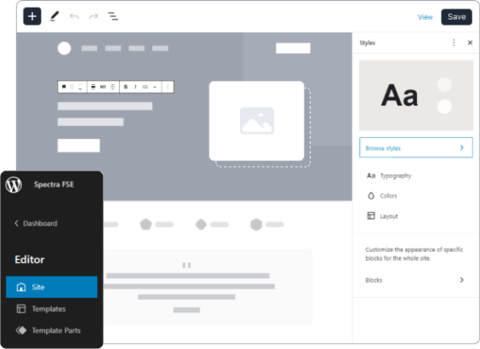
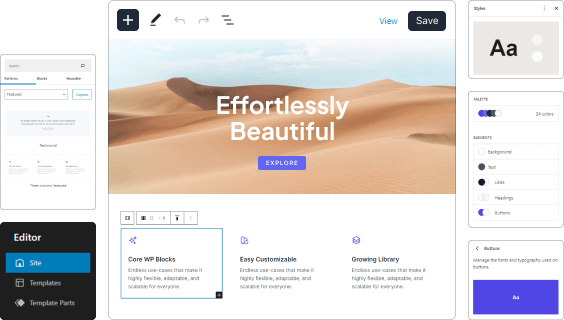
updated : front page and introduced button style

diff --git a/assets/css/minified/editor.min-rtl.css b/assets/css/minified/editor.min-rtl.css
@@ -1,1 +1,1 @@
-.is-style-swt-search-minimal.wp-block-search__button-inside .wp-block-search__button{color:var(--wp--preset--color--heading);background-color:var(--wp--preset--color--background);border-radius:0;margin:0;padding:var(--wp--preset--spacing--xx-small) var(--wp--preset--spacing--x-small)}.is-style-swt-search-minimal.wp-block-search__button-inside .wp-block-search__button:hover{color:var(--wp--preset--color--heading);background-color:var(--wp--preset--color--background)}.is-style-swt-search-minimal.wp-block-search__button-inside .wp-block-search__inside-wrapper{padding:4px;border:1px solid var(--wp--preset--color--outline);border-radius:var(--wp--custom--border-radius--small)}.is-style-swt-search-minimal .wp-block-search__input{color:var(--wp--preset--color--heading);background-color:var(--wp--preset--color--background);border-radius:0;border:0}.is-style-swt-search-minimal.wp-block-search__button-outside .wp-block-search__input,.is-style-swt-search-minimal.wp-block-search__no-button .wp-block-search__input{border:1px solid var(--wp--preset--color--outline);border-radius:var(--wp--custom--border-radius--small)}.is-style-swt-post-terms-pill a{padding:6px 12px;border-radius:var(--wp--custom--border-radius--full);color:var(--wp--preset--color--body);background-color:var(--wp--preset--color--surface);margin-left:var(--wp--preset--spacing--xx-small);line-height:var(--wp--custom--line-height--initial)}.is-style-swt-post-terms-pill a .wp-block-post-terms__separator{display:none}.edit-post-visual-editor__post-title-wrapper{position:relative;max-width:min(100dvw - var(--wp--preset--spacing--large,2rem),764px);margin-right:auto;margin-left:auto;margin-bottom:1.5em}.edit-post-visual-editor__post-title-wrapper .title-visibility{cursor:pointer;font-size:18px;width:36px;height:100%;text-align:center;color:var(--wp-admin-theme-color);vertical-align:middle;position:absolute;right:-37px;bottom:0;opacity:0;box-shadow:0 0 0 1px var(--wp-admin-theme-color);transition:all .2s}.edit-post-visual-editor__post-title-wrapper .title-visibility:before{width:100%;height:100%;display:inline-flex;align-items:center;justify-content:center}.edit-post-visual-editor__post-title-wrapper .title-visibility:after{content:attr(data-tooltip);white-space:nowrap;border-radius:2px;pointer-events:none;color:#fff;background:#1e1e1e;opacity:0;visibility:hidden;width:max-content;line-height:26px;margin-right:-1px;display:flex;font-family:-apple-system,BlinkMacSystemFont,"Segoe UI",Roboto,Oxygen-Sans,Ubuntu,Cantarell,"Helvetica Neue",sans-serif;align-items:flex-start;padding:0 6px;font-size:12px;transition:all .2s}.edit-post-visual-editor__post-title-wrapper h1.editor-post-title__input{padding:10px 6px;transition:all .2s}.edit-post-visual-editor__post-title-wrapper h1.editor-post-title__input.is-selected{box-shadow:0 0 0 1px var(--wp-admin-theme-color)}.edit-post-visual-editor__post-title-wrapper h1.editor-post-title__input.is-selected+.title-visibility{opacity:1;color:var(--wp-admin-theme-color)}.edit-post-visual-editor__post-title-wrapper .swt-show-visibility-icon{opacity:1;color:var(--wp-admin-theme-color)}.edit-post-visual-editor__post-title-wrapper .swt-show-editor-title-outline{box-shadow:0 0 0 1px var(--wp-admin-theme-color)}.edit-post-visual-editor__post-title-wrapper.invisible{opacity:.5}
+.is-style-swt-search-minimal.wp-block-search__button-inside .wp-block-search__button{color:var(--wp--preset--color--heading);background-color:var(--wp--preset--color--background);border-radius:0;margin:0;padding:var(--wp--preset--spacing--xx-small) var(--wp--preset--spacing--x-small)}.is-style-swt-search-minimal.wp-block-search__button-inside .wp-block-search__button:hover{color:var(--wp--preset--color--heading);background-color:var(--wp--preset--color--background)}.is-style-swt-search-minimal.wp-block-search__button-inside .wp-block-search__inside-wrapper{padding:4px;border:1px solid var(--wp--preset--color--outline);border-radius:var(--wp--custom--border-radius--small)}.is-style-swt-search-minimal .wp-block-search__input{color:var(--wp--preset--color--heading);background-color:var(--wp--preset--color--background);border-radius:0;border:0}.is-style-swt-search-minimal.wp-block-search__button-outside .wp-block-search__input,.is-style-swt-search-minimal.wp-block-search__no-button .wp-block-search__input{border:1px solid var(--wp--preset--color--outline);border-radius:var(--wp--custom--border-radius--small)}.is-style-swt-post-terms-pill a{padding:6px 12px;border-radius:var(--wp--custom--border-radius--full);color:var(--wp--preset--color--body);background-color:var(--wp--preset--color--surface);margin-left:var(--wp--preset--spacing--xx-small);line-height:var(--wp--custom--line-height--initial)}.is-style-swt-post-terms-pill a .wp-block-post-terms__separator{display:none}.is-style-swt-button-secondary .wp-element-button{color:var(--wp--preset--color--body);background-color:var(--wp--preset--color--surface)}.is-style-swt-button-secondary .wp-element-button:hover{color:var(--wp--preset--color--body);background-color:var(--wp--preset--color--surface)}.edit-post-visual-editor__post-title-wrapper{position:relative;max-width:min(100dvw - var(--wp--preset--spacing--large,2rem),764px);margin-right:auto;margin-left:auto;margin-bottom:1.5em}.edit-post-visual-editor__post-title-wrapper .title-visibility{cursor:pointer;font-size:18px;width:36px;height:100%;text-align:center;color:var(--wp-admin-theme-color);vertical-align:middle;position:absolute;right:-37px;bottom:0;opacity:0;box-shadow:0 0 0 1px var(--wp-admin-theme-color);transition:all .2s}.edit-post-visual-editor__post-title-wrapper .title-visibility:before{width:100%;height:100%;display:inline-flex;align-items:center;justify-content:center}.edit-post-visual-editor__post-title-wrapper .title-visibility:after{content:attr(data-tooltip);white-space:nowrap;border-radius:2px;pointer-events:none;color:#fff;background:#1e1e1e;opacity:0;visibility:hidden;width:max-content;line-height:26px;margin-right:-1px;display:flex;font-family:-apple-system,BlinkMacSystemFont,"Segoe UI",Roboto,Oxygen-Sans,Ubuntu,Cantarell,"Helvetica Neue",sans-serif;align-items:flex-start;padding:0 6px;font-size:12px;transition:all .2s}.edit-post-visual-editor__post-title-wrapper h1.editor-post-title__input{padding:10px 6px;transition:all .2s}.edit-post-visual-editor__post-title-wrapper h1.editor-post-title__input.is-selected{box-shadow:0 0 0 1px var(--wp-admin-theme-color)}.edit-post-visual-editor__post-title-wrapper h1.editor-post-title__input.is-selected+.title-visibility{opacity:1;color:var(--wp-admin-theme-color)}.edit-post-visual-editor__post-title-wrapper .swt-show-visibility-icon{opacity:1;color:var(--wp-admin-theme-color)}.edit-post-visual-editor__post-title-wrapper .swt-show-editor-title-outline{box-shadow:0 0 0 1px var(--wp-admin-theme-color)}.edit-post-visual-editor__post-title-wrapper.invisible{opacity:.5}

diff --git a/assets/css/minified/editor.min.css b/assets/css/minified/editor.min.css
@@ -1,1 +1,1 @@
-.is-style-swt-search-minimal.wp-block-search__button-inside .wp-block-search__button{color:var(--wp--preset--color--heading);background-color:var(--wp--preset--color--background);border-radius:0;margin:0;padding:var(--wp--preset--spacing--xx-small) var(--wp--preset--spacing--x-small)}.is-style-swt-search-minimal.wp-block-search__button-inside .wp-block-search__button:hover{color:var(--wp--preset--color--heading);background-color:var(--wp--preset--color--background)}.is-style-swt-search-minimal.wp-block-search__button-inside .wp-block-search__inside-wrapper{padding:4px;border:1px solid var(--wp--preset--color--outline);border-radius:var(--wp--custom--border-radius--small)}.is-style-swt-search-minimal .wp-block-search__input{color:var(--wp--preset--color--heading);background-color:var(--wp--preset--color--background);border-radius:0;border:0}.is-style-swt-search-minimal.wp-block-search__button-outside .wp-block-search__input,.is-style-swt-search-minimal.wp-block-search__no-button .wp-block-search__input{border:1px solid var(--wp--preset--color--outline);border-radius:var(--wp--custom--border-radius--small)}.is-style-swt-post-terms-pill a{padding:6px 12px;border-radius:var(--wp--custom--border-radius--full);color:var(--wp--preset--color--body);background-color:var(--wp--preset--color--surface);margin-right:var(--wp--preset--spacing--xx-small);line-height:var(--wp--custom--line-height--initial)}.is-style-swt-post-terms-pill a .wp-block-post-terms__separator{display:none}.edit-post-visual-editor__post-title-wrapper{position:relative;max-width:min(100dvw - var(--wp--preset--spacing--large,2rem),764px);margin-left:auto;margin-right:auto;margin-bottom:1.5em}.edit-post-visual-editor__post-title-wrapper .title-visibility{cursor:pointer;font-size:18px;width:36px;height:100%;text-align:center;color:var(--wp-admin-theme-color);vertical-align:middle;position:absolute;left:-37px;bottom:0;opacity:0;box-shadow:0 0 0 1px var(--wp-admin-theme-color);transition:all .2s}.edit-post-visual-editor__post-title-wrapper .title-visibility:before{width:100%;height:100%;display:inline-flex;align-items:center;justify-content:center}.edit-post-visual-editor__post-title-wrapper .title-visibility:after{content:attr(data-tooltip);white-space:nowrap;border-radius:2px;pointer-events:none;color:#fff;background:#1e1e1e;opacity:0;visibility:hidden;width:max-content;line-height:26px;margin-left:-1px;display:flex;font-family:-apple-system,BlinkMacSystemFont,"Segoe UI",Roboto,Oxygen-Sans,Ubuntu,Cantarell,"Helvetica Neue",sans-serif;align-items:flex-start;padding:0 6px;font-size:12px;transition:all .2s}.edit-post-visual-editor__post-title-wrapper h1.editor-post-title__input{padding:10px 6px;transition:all .2s}.edit-post-visual-editor__post-title-wrapper h1.editor-post-title__input.is-selected{box-shadow:0 0 0 1px var(--wp-admin-theme-color)}.edit-post-visual-editor__post-title-wrapper h1.editor-post-title__input.is-selected+.title-visibility{opacity:1;color:var(--wp-admin-theme-color)}.edit-post-visual-editor__post-title-wrapper .swt-show-visibility-icon{opacity:1;color:var(--wp-admin-theme-color)}.edit-post-visual-editor__post-title-wrapper .swt-show-editor-title-outline{box-shadow:0 0 0 1px var(--wp-admin-theme-color)}.edit-post-visual-editor__post-title-wrapper.invisible{opacity:.5}
+.is-style-swt-search-minimal.wp-block-search__button-inside .wp-block-search__button{color:var(--wp--preset--color--heading);background-color:var(--wp--preset--color--background);border-radius:0;margin:0;padding:var(--wp--preset--spacing--xx-small) var(--wp--preset--spacing--x-small)}.is-style-swt-search-minimal.wp-block-search__button-inside .wp-block-search__button:hover{color:var(--wp--preset--color--heading);background-color:var(--wp--preset--color--background)}.is-style-swt-search-minimal.wp-block-search__button-inside .wp-block-search__inside-wrapper{padding:4px;border:1px solid var(--wp--preset--color--outline);border-radius:var(--wp--custom--border-radius--small)}.is-style-swt-search-minimal .wp-block-search__input{color:var(--wp--preset--color--heading);background-color:var(--wp--preset--color--background);border-radius:0;border:0}.is-style-swt-search-minimal.wp-block-search__button-outside .wp-block-search__input,.is-style-swt-search-minimal.wp-block-search__no-button .wp-block-search__input{border:1px solid var(--wp--preset--color--outline);border-radius:var(--wp--custom--border-radius--small)}.is-style-swt-post-terms-pill a{padding:6px 12px;border-radius:var(--wp--custom--border-radius--full);color:var(--wp--preset--color--body);background-color:var(--wp--preset--color--surface);margin-right:var(--wp--preset--spacing--xx-small);line-height:var(--wp--custom--line-height--initial)}.is-style-swt-post-terms-pill a .wp-block-post-terms__separator{display:none}.is-style-swt-button-secondary .wp-element-button{color:var(--wp--preset--color--body);background-color:var(--wp--preset--color--surface)}.is-style-swt-button-secondary .wp-element-button:hover{color:var(--wp--preset--color--body);background-color:var(--wp--preset--color--surface)}.edit-post-visual-editor__post-title-wrapper{position:relative;max-width:min(100dvw - var(--wp--preset--spacing--large,2rem),764px);margin-left:auto;margin-right:auto;margin-bottom:1.5em}.edit-post-visual-editor__post-title-wrapper .title-visibility{cursor:pointer;font-size:18px;width:36px;height:100%;text-align:center;color:var(--wp-admin-theme-color);vertical-align:middle;position:absolute;left:-37px;bottom:0;opacity:0;box-shadow:0 0 0 1px var(--wp-admin-theme-color);transition:all .2s}.edit-post-visual-editor__post-title-wrapper .title-visibility:before{width:100%;height:100%;display:inline-flex;align-items:center;justify-content:center}.edit-post-visual-editor__post-title-wrapper .title-visibility:after{content:attr(data-tooltip);white-space:nowrap;border-radius:2px;pointer-events:none;color:#fff;background:#1e1e1e;opacity:0;visibility:hidden;width:max-content;line-height:26px;margin-left:-1px;display:flex;font-family:-apple-system,BlinkMacSystemFont,"Segoe UI",Roboto,Oxygen-Sans,Ubuntu,Cantarell,"Helvetica Neue",sans-serif;align-items:flex-start;padding:0 6px;font-size:12px;transition:all .2s}.edit-post-visual-editor__post-title-wrapper h1.editor-post-title__input{padding:10px 6px;transition:all .2s}.edit-post-visual-editor__post-title-wrapper h1.editor-post-title__input.is-selected{box-shadow:0 0 0 1px var(--wp-admin-theme-color)}.edit-post-visual-editor__post-title-wrapper h1.editor-post-title__input.is-selected+.title-visibility{opacity:1;color:var(--wp-admin-theme-color)}.edit-post-visual-editor__post-title-wrapper .swt-show-visibility-icon{opacity:1;color:var(--wp-admin-theme-color)}.edit-post-visual-editor__post-title-wrapper .swt-show-editor-title-outline{box-shadow:0 0 0 1px var(--wp-admin-theme-color)}.edit-post-visual-editor__post-title-wrapper.invisible{opacity:.5}

diff --git a/assets/css/unminified/editor-rtl.css b/assets/css/unminified/editor-rtl.css
@@ -44,6 +44,18 @@
 }
 
 /*--------------------------------------------------------------
+# Button Block
+--------------------------------------------------------------*/
+.is-style-swt-button-secondary .wp-element-button {
+  color: var(--wp--preset--color--body);
+  background-color: var(--wp--preset--color--surface);
+}
+.is-style-swt-button-secondary .wp-element-button:hover {
+  color: var(--wp--preset--color--body);
+  background-color: var(--wp--preset--color--surface);
+}
+
+/*--------------------------------------------------------------
 # Post / Page hide and show title
 --------------------------------------------------------------*/
 .edit-post-visual-editor__post-title-wrapper {

diff --git a/assets/css/unminified/editor.css b/assets/css/unminified/editor.css
@@ -44,6 +44,18 @@
 }
 
 /*--------------------------------------------------------------
+# Button Block
+--------------------------------------------------------------*/
+.is-style-swt-button-secondary .wp-element-button {
+  color: var(--wp--preset--color--body);
+  background-color: var(--wp--preset--color--surface);
+}
+.is-style-swt-button-secondary .wp-element-button:hover {
+  color: var(--wp--preset--color--body);
+  background-color: var(--wp--preset--color--surface);
+}
+
+/*--------------------------------------------------------------
 # Post / Page hide and show title
 --------------------------------------------------------------*/
 .edit-post-visual-editor__post-title-wrapper {

diff --git a/sass/editor.scss b/sass/editor.scss
@@ -63,6 +63,19 @@
     }
 }
 
+/*--------------------------------------------------------------
+# Button Block
+--------------------------------------------------------------*/
+
+.is-style-swt-button-secondary .wp-element-button {
+    color: var(--wp--preset--color--body);
+    background-color: var(--wp--preset--color--surface);
+
+    &:hover{
+        color: var(--wp--preset--color--body);
+        background-color: var(--wp--preset--color--surface);
+    }
+}
 
 /*--------------------------------------------------------------
 # Post / Page hide and show title

diff --git a/templates/home.html b/templates/home.html
@@ -1,4 +1,4 @@
-<!-- wp:template-part {"slug":"header","theme":"spectra-one","tagName":"header"} /-->
+<!-- wp:template-part {"slug":"header","theme":"spectra-one","tagName":"header","SWTTransparentHeader":true} /-->
 <!-- wp:pattern {"slug":"spectra-one/hero-banner"} /-->
 <!-- wp:pattern {"slug":"spectra-one/three-columns-featured"} /-->
 <!-- wp:pattern {"slug":"spectra-one/banner-wide"} /-->

diff --git a/patterns/hero-banner.php b/patterns/hero-banner.php
@@ -14,9 +14,9 @@ $get_url = trailingslashit( get_template_directory_uri());
 );
 ?>
 
-<!-- wp:group {"align":"wide","style":{"spacing":{"padding":{"top":"var:preset|spacing|large","bottom":"var:preset|spacing|large"}}},"layout":{"type":"constrained"}} -->
-<div class="wp-block-group alignwide" style="padding-top:var(--wp--preset--spacing--large);padding-bottom:var(--wp--preset--spacing--large)"><!-- wp:columns {"align":"wide","style":{"spacing":{"blockGap":{"top":"var:preset|spacing|medium","left":"var:preset|spacing|medium"}}}} -->
-<div class="wp-block-columns alignwide"><!-- wp:column {"style":{"spacing":{}}} -->
+<!-- wp:group {"style":{"spacing":{"padding":{"top":"var:preset|spacing|xx-large","bottom":"var:preset|spacing|xx-large"},"margin":{"top":"0","bottom":"0"}},"color":{"gradient":"linear-gradient(160deg,rgb(250,248,255) 31%,rgb(247,229,252) 49%,rgb(154,126,240) 69%,rgb(37,13,135) 79%)"}},"layout":{"type":"constrained"}} -->
+<div class="wp-block-group has-background" style="background:linear-gradient(160deg,rgb(250,248,255) 31%,rgb(247,229,252) 49%,rgb(154,126,240) 69%,rgb(37,13,135) 79%);margin-top:0;margin-bottom:0;padding-top:var(--wp--preset--spacing--xx-large);padding-bottom:var(--wp--preset--spacing--xx-large)"><!-- wp:columns {"align":"wide","style":{"spacing":{"blockGap":{"top":"var:preset|spacing|medium","left":"var:preset|spacing|medium"},"padding":{"top":"var:preset|spacing|large"}}}} -->
+<div class="wp-block-columns alignwide" style="padding-top:var(--wp--preset--spacing--large)"><!-- wp:column {"style":{"spacing":{}}} -->
 <div class="wp-block-column"><!-- wp:heading {"level":1,"style":{"typography":{"letterSpacing":"-1px"},"spacing":{"padding":{"right":"var:preset|spacing|medium"}}},"textColor":"heading","className":"wp-block-heading"} -->
 <h1 class="wp-block-heading has-heading-color has-text-color" style="padding-right:var(--wp--preset--spacing--medium);letter-spacing:-1px">Discover a new way to build website</h1>
 <!-- /wp:heading -->
@@ -30,29 +30,11 @@ $get_url = trailingslashit( get_template_directory_uri());
 <!-- wp:button {"textColor":"primary","className":"is-style-outline"} -->
 <div class="wp-block-button is-style-outline"><a class="wp-block-button__link has-primary-color has-text-color wp-element-button">Learn More</a></div>
 <!-- /wp:button --></div>
-<!-- /wp:buttons -->
-<!-- wp:group {"style":{"spacing":{"blockGap":"var:preset|spacing|x-large","padding":{"top":"var:preset|spacing|large"}}},"layout":{"type":"flex","flexWrap":"nowrap"}} -->
-<div class="wp-block-group" style="padding-top:var(--wp--preset--spacing--large)"><!-- wp:group {"style":{"spacing":{"blockGap":"0"}},"layout":{"type":"flex","orientation":"vertical"}} -->
-<div class="wp-block-group"><!-- wp:heading {"level":4,"textColor":"heading","className":"wp-block-heading"} -->
-<h4 class="wp-block-heading has-heading-color has-text-color">A+</h4>
-<!-- /wp:heading -->
-<!-- wp:paragraph -->
-<p>Avg rating 4.9</p>
-<!-- /wp:paragraph --></div>
-<!-- /wp:group -->
-<!-- wp:group {"style":{"spacing":{"blockGap":"0"}},"layout":{"type":"flex","orientation":"vertical"}} -->
-<div class="wp-block-group"><!-- wp:heading {"level":4,"textColor":"heading","className":"wp-block-heading"} -->
-<h4 class="wp-block-heading has-heading-color has-text-color">800K+</h4>
-<!-- /wp:heading -->
-<!-- wp:paragraph -->
-<p>Active install</p>
-<!-- /wp:paragraph --></div>
-<!-- /wp:group --></div>
-<!-- /wp:group --></div>
+<!-- /wp:buttons --></div>
 <!-- /wp:column -->
 <!-- wp:column -->
-<div class="wp-block-column"><!-- wp:image {"id":191,"sizeSlug":"full","linkDestination":"none"} -->
-<figure class="wp-block-image size-full"><img src="<?php echo esc_url( $images[0] ); ?>" alt="" class="wp-image-191"/></figure>
+<div class="wp-block-column"><!-- wp:image {"id":809,"sizeSlug":"full","linkDestination":"none"} -->
+<figure class="wp-block-image size-full"><img src="<?php echo esc_url( $images[0] ); ?>" alt="" class="wp-image-809"/></figure>
 <!-- /wp:image --></div>
 <!-- /wp:column --></div>
 <!-- /wp:columns --></div>

diff --git a/inc/block-styles/button.php b/inc/block-styles/button.php
@@ -1,0 +1,35 @@
+<?php
+/**
+ * Register Button Block Styles.
+ *
+ * @package Spectra One
+ * @author Brainstorm Force
+ * @since 0.0.1
+ */
+
+declare( strict_types=1 );
+
+namespace Swt;
+
+if ( ! defined( 'ABSPATH' ) ) {
+	exit; // Exit if accessed directly.
+}
+
+register_block_style(
+	'core/button',
+	array(
+		'name'         => SWT_PFX . '-button-secondary',
+		'label'        => __( 'Secondary', 'spectra-one' ),
+		'inline_style' => '
+			.is-style-' . SWT_PFX . '-button-secondary .wp-element-button {
+                color: var(--wp--preset--color--body);
+				background-color: var(--wp--preset--color--surface);
+			}
+
+            .is-style-' . SWT_PFX . '-button-secondary .wp-element-button:hover {
+                color: var(--wp--preset--color--body);
+				background-color: var(--wp--preset--color--surface);
+			}
+		',
+	)
+);

diff --git a/inc/block-styles/categories.php b/inc/block-styles/categories.php
@@ -1,6 +1,6 @@
 <?php
 /**
- * Register Block Styles.
+ * Register Categories Block Styles.
  *
  * @package Spectra One
  * @author Brainstorm Force

diff --git a/inc/block-styles/search.php b/inc/block-styles/search.php
@@ -1,6 +1,6 @@
 <?php
 /**
- * Register Block Styles.
+ * Register Search Block Styles.
  *
  * @package Spectra One
  * @author Brainstorm Force

diff --git a/inc/block-styles/all.php b/inc/block-styles/all.php
@@ -17,3 +17,4 @@ if ( ! defined( 'ABSPATH' ) ) {
 
 require_once 'categories.php';
 require_once 'search.php';
+require_once 'button.php';
